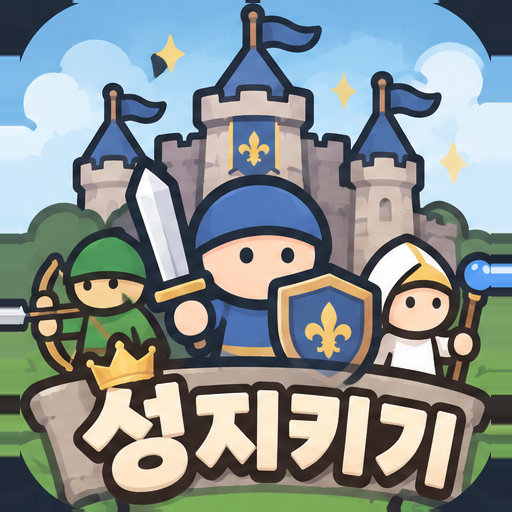
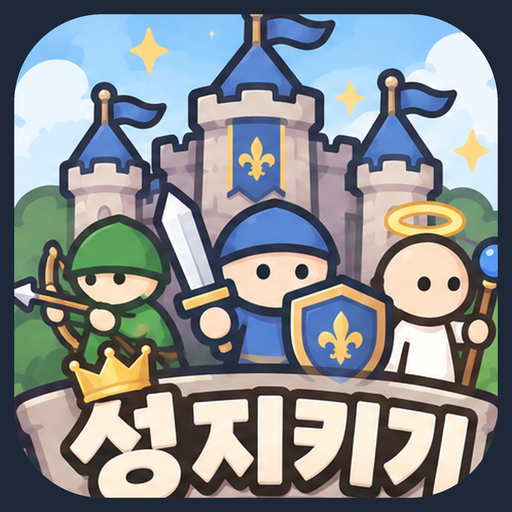
새 로고·앱 아이콘 적용, 100라운드 클리어 시 복구 자금 50,000G

diff --git a/index.html b/index.html
@@ -444,8 +444,8 @@ table.rank tr.top.me td { outline: 1px solid rgba(255,204,64,.8); outline-offset
 @keyframes cfxSpark { from { transform: translate(0, 0) scale(1); opacity: 1; } to { transform: translate(var(--dx), var(--dy)) scale(.2); opacity: 0; } }
 @media (prefers-reduced-motion: reduce) { .clickfx { display: none; } }
 </style>
-<link rel="icon" href="icon-192.png" type="image/png">
-<link rel="apple-touch-icon" href="icon.png">
+<link rel="icon" href="icon-192.png?v=20261128a" type="image/png">
+<link rel="apple-touch-icon" href="icon.png?v=20261128a">
 <meta name="theme-color" content="#16301f">
 </head>
 <body class="pre">
@@ -560,7 +560,7 @@ table.rank tr.top.me td { outline: 1px solid rgba(255,204,64,.8); outline-offset
 
 <div id="title" class="hidden">
   <div class="art"></div>
-  <div class="logo"><img src="assets/logo.webp" alt="성 지키기" width="800" height="692"><p>CASTLE DEFENSE</p></div>
+  <div class="logo"><img src="assets/logo.webp?v=20261128a" alt="성 지키기" width="800" height="692"><p>CASTLE DEFENSE</p></div>
   <div id="tapHint">화면을 터치하거나 아무 키나 누르세요</div>
   <div id="tMenu"><button id="mStart" class="main">게임 시작</button><button id="mHow">게임 방법</button><button id="mColl">컬렉션</button><button id="mRank">랭킹</button><button id="mQuit">게임 종료</button></div>
   <button id="tDev" class="btn panel tbtn" aria-label="" tabindex="-1"></button><button id="tSet" class="btn panel tbtn" aria-label="설정"><svg class="gear" viewBox="0 0 24 24" width="20" height="20" fill="none" stroke="currentColor" stroke-width="1.8" stroke-linecap="round" stroke-linejoin="round"><circle cx="12" cy="12" r="3.2"/><path d="M12 2.8l1.5 2.4 2.8-.6.9 2.7 2.7.9-.6 2.8 2.4 1.5-2.4 1.5.6 2.8-2.7.9-.9 2.7-2.8-.6L12 21.2l-1.5-2.4-2.8.6-.9-2.7-2.7-.9.6-2.8L2.3 12l2.4-1.5-.6-2.8 2.7-.9.9-2.7 2.8.6z"/></svg></button>
@@ -587,14 +587,14 @@ table.rank tr.top.me td { outline: 1px solid rgba(255,204,64,.8); outline-offset
   </div>
 </div>
 
-<script src="core.js?v=20261127l"></script>
-<script src="figures.js?v=20261127l"></script>
-<script src="scenery.js?v=20261127l"></script>
-<script src="config.js?v=20261127l"></script>
-<script src="meta.js?v=20261127l"></script>
-<script src="net.js?v=20261127l"></script>
-<script src="audio.js?v=20261127l"></script>
-<script src="patches.js?v=20261127l"></script>
-<script src="main.js?v=20261127l"></script>
+<script src="core.js?v=20261128a"></script>
+<script src="figures.js?v=20261128a"></script>
+<script src="scenery.js?v=20261128a"></script>
+<script src="config.js?v=20261128a"></script>
+<script src="meta.js?v=20261128a"></script>
+<script src="net.js?v=20261128a"></script>
+<script src="audio.js?v=20261128a"></script>
+<script src="patches.js?v=20261128a"></script>
+<script src="main.js?v=20261128a"></script>
 </body>
 </html>

diff --git a/core.js b/core.js
@@ -336,7 +336,7 @@
     // 엘리트: 일반 몬스터가 일정 확률로 훨씬 강하고 크게 나온다. 확률은 라운드가 갈수록 커져 최대 max
     elite: { from: 3, perRound: 0.0025, max: 0.10, hp: 3, dmg: 1.6, size: 1.35, gold: 4, speed: 1.05 },
     endless: { hpLin: 0.064, hpQuad: 0.000375, cnt: 0.011, bossBase: 60000, bossExp: 0.6, marMul: 0.9, postBoss: 1.8, // 용(100라운드) 이후: 체력 배율이 더 가파르게 오른다 (라운드마다 +12%p + 제곱항), 수·속도도 가속
-      infLin: 0.09, infQuad: 0.003, infCnt: 0.015, infSpd: 0.0045, infSpdCap: 1.7 }, // 무한 모드(51라운드~) 난이도 곡선: 체력 배율 1+lin·n+quad·n², 적 수 +cnt·n (n = 50라운드 이후 지난 라운드)
+      infLin: 0.09, infQuad: 0.003, infCnt: 0.015, infSpd: 0.0045, infSpdCap: 1.7, clearGold: 50000 }, // clearGold: 용을 쓰러뜨리고 무한 모드로 이어 갈 때 주는 복구 자금 (100라운드 무렵 한 라운드 수입의 약 5배) // 무한 모드(51라운드~) 난이도 곡선: 체력 배율 1+lin·n+quad·n², 적 수 +cnt·n (n = 50라운드 이후 지난 라운드)
     dmgVar: 0.15,                     // 모든 공격 피해에 공격력 ±15% 오차
     legendChance: 0.007,              // 30라운드 이후, 카드 한 칸마다 전설 카드가 나올 확률 (아주 낮음)
     rarityWeight: { common: 70, rare: 25, epic: 5 },
@@ -673,7 +673,8 @@
     S.over = false; S.win = false; S.cleared = true; S.infinite = true; S.cliff = 0; S.cliffTheme = null; S.dragonIntro = null; S.dragonWaveT = undefined; S.bossDeath = null;
     S.enemies.length = 0; S.queue.length = 0; S.strikes.length = 0; S.pools.length = 0; S.rain.length = 0; S.omen = null; S.omenWait = false; S.omenEv = null;
     S.core.hp = Math.max(S.core.hp, S.core.max * 0.8);
-    emit(S, { type: 'infinite' }); return true;
+    const g = CFG.endless.clearGold; S.gold += g; S.stats.earned += g; // 100라운드 클리어 보상: 용과의 싸움에서 잃은 병력을 다시 꾸릴 자금
+    emit(S, { type: 'infinite', gold: g }); return true;
   }
   function reviveForEndless(S, boss) {
     S.endless = true; S.cinematic = { name: boss.bossName, kind: 'endless' };
@@ -999,6 +1000,7 @@
       const E = CFG.elite, ep = r >= E.from ? Math.min(E.max, (r - E.from + 1) * E.perRound) : 0;
       b += 1.6 * (enemyCount(r) * KIND_AVG(r) * (1 + ep * (E.gold - 1)) + (r % 5 === 0 && r >= 5 ? CFG.enemies.boss.gold : 0));
     }
+    if (R >= FINAL_ROUND) b += CFG.endless.clearGold; // 100라운드 클리어 보상
     return Math.round(b);
   }
   function checkRun(S) {

diff --git a/main.js b/main.js
@@ -1087,7 +1087,7 @@
       else if (ev.type === 'strikeWarn') addFx({ k: 'strikeW', x: ev.x, y: ev.y, r: ev.r, ang: ev.ang, half: ev.half, len: ev.len, kind: ev.kind, shape: ev.shape, w2: ev.w2, claw: ev.claw, t: 0, max: Math.max(0.2, ev.t) });
       else if (ev.type === 'strikeHit') { { const sc = { bolt: '#fff27a', fire: '#ff9a3a', slam: '#d9a05a', frost: '#bfe8ff', ice: '#bfe8ff', slash: '#ffffff', claw: '#ff6a6a' }[ev.kind] || '#ffd27a'; addFx({ k: 'sparks', x: ev.x, y: ev.y, t: 0, max: 0.45, c: sc, r: Math.min(ev.r || 60, 110), n: 14, w: 3, big: true }); } addFx({ k: 'strikeH', x: ev.x, y: ev.y, r: ev.r, ang: ev.ang, half: ev.half, len: ev.len, kind: ev.kind, shape: ev.shape, w2: ev.w2, claw: ev.claw, t: 0, max: ev.shape === 'cone' ? 0.7 : ev.shape === 'line' ? 0.6 : 0.55 }); if (ev.kind !== 'ice' || ev.r > 300) addShake(ev.kind === 'slam' ? 14 : ev.kind === 'wind' ? 5 : ev.r > 250 ? 12 : 6, ev.kind === 'slam' ? 0.45 : 0.3); }
       else if (ev.type === 'omen') { if (ev.id !== 'dragon') showBossIntro({ name: ev.name, line: ev.line, look: ev.look, r: ev.r, long: true, omen: ev.id }); toast(ev.id === 'dragon' ? '용의 기운이 맵 가장자리에 감돕니다' : '사천왕의 기운이 맵 가장자리에 감돕니다'); if (ev.fx) setTimeout(() => toast(ev.fx), 1200); }
-      else if (ev.type === 'infinite') { addFx({ k: 'ring', x: CX, y: CY, t: 0, max: 1.0, c: '#c77dff', big: true, r: 220 }); }
+      else if (ev.type === 'infinite') { addFx({ k: 'ring', x: CX, y: CY, t: 0, max: 1.0, c: '#c77dff', big: true, r: 220 }); if (ev.gold) { toast('🐉 100라운드 클리어 보상 +' + ev.gold.toLocaleString() + 'G'); } }
       else if (ev.type === 'omenEmber') addFx({ k: 'ring', x: ev.x, y: ev.y, t: 0, max: 0.5, c: '#ff7a3a' });
       else if (ev.type === 'castleAwaken') { banner('성채 각성!', true); for (let i = 0; i < 4; i++) addFx({ k: 'ring', x: CX, y: CY, t: -i * 0.12, max: 1.0, c: '#ffe27a', big: true, r: 200 }); addShake(8, 0.5); }
       else if (ev.type === 'dragonRise') { banner(ev.back ? '용이 하늘에서 내려온다!!' : '재앙의 용이 모습을 드러낸다!!', true); flash('#ff3a1a', ev.back ? 0.2 : 0.45); addShake(ev.back ? 4 : 14, ev.back ? 0.5 : 1.2); if (!ev.back) { // 단상 가장자리에 충격파와 먼지·불씨가 터진다

diff --git a/tests/smoke.js b/tests/smoke.js
@@ -901,7 +901,9 @@ function spreadOf(g) { const q = { up: 0, down: 0, left: 0, right: 0 }, ang = []
 // 66) 엔딩 뒤 무한 모드
 { const g = C.createGame(31); g.captureEvents = true; C.devSetup(g, 100); for (let i = 0; i < 30 * 10; i++) { if (g.cards.offer) C.pickCard(g, 0); if (g.jobs.offer) C.pickJob(g, 0); if (g.cOffer) C.pickCastle(g, 0); C.tick(g, DT); }
   check('엔딩 전에는 무한 모드로 이어갈 수 없음', !C.continueInfinite(g)); g.win = true; g.over = true; g.round = 100;
+  const gold0 = g.gold, earn0 = g.stats.earned;
   check('엔딩 뒤 무한 모드로 이어짐', C.continueInfinite(g) && !g.over && !g.win && g.infinite && g.cliff === 0);
+  check('100라운드 클리어 보상 골드', g.gold - gold0 === C.CFG.endless.clearGold && g.stats.earned - earn0 === C.CFG.endless.clearGold, '+' + (g.gold - gold0));
   g.core.hp = g.core.max = 1e12; let r0 = g.round; for (let i = 0; i < 30 * 60 * 6 && g.round <= 100; i++) { for (const u of g.units) u.hp = u.max; C.tick(g, DT); }
   check('무한 모드: 101라운드가 시작됨', g.round >= 101, g.round);
   const h = r => C.bossInfo(g, r).hp; check('무한 모드: 100라운드 이후 적 체력이 훨씬 가파르게 오름', h(115) / h(105) > 1.4 && h(125) / h(115) > 1.4 && h(105) / h(95) > h(95) / h(85) * 1.15, (h(115) / h(105)).toFixed(2));

diff --git a/sw.js b/sw.js
@@ -1,7 +1,7 @@
 // 설치형 앱(PWA) 서비스 워커: 한 번 받은 파일은 기기에 저장해 두어 다음부터 빠르게 열리고, 인터넷이 없어도 게임을 할 수 있다.
 // 페이지·스크립트는 '인터넷 먼저'(새 버전이 있으면 바로 받음), 그림은 '저장본 먼저'. 배경음악(mp3)과 랭킹 서버 요청은 건드리지 않는다.
-const CACHE = 'cd-v2'; // 그림을 바꾸면 이름을 올려 저장본을 새로 받게 한다
-const CORE = ['./', 'index.html', 'manifest.webmanifest', 'icon.png', 'icon-192.png', 'icon-512.png', 'icon-mask-512.png', 'assets/title.webp', 'assets/logo.webp'];
+const CACHE = 'cd-v3'; // 그림을 바꾸면 이름을 올려 저장본을 새로 받게 한다
+const CORE = ['./', 'index.html', 'manifest.webmanifest', 'icon.png', 'icon-192.png', 'icon-512.png', 'icon-mask-512.png', 'assets/title.webp', 'assets/logo.webp?v=20261128a'];
 self.addEventListener('install', e => { e.waitUntil(caches.open(CACHE).then(c => c.addAll(CORE)).catch(() => {})); self.skipWaiting(); });
 self.addEventListener('activate', e => { e.waitUntil(caches.keys().then(ks => Promise.all(ks.filter(k => k !== CACHE).map(k => caches.delete(k)))).then(() => self.clients.claim())); });
 self.addEventListener('fetch', e => {

diff --git a/patches.js b/patches.js
@@ -1,6 +1,10 @@
 // 패치 노트: 맨 위가 최신. 새 패치를 올릴 때 맨 위에 항목을 추가하면 시작 화면에서 아직 안 본 사람에게 한 번 자동으로 보여 준다.
 // id는 겹치지 않게 (날짜 + 순번). title은 짧게, items는 한 줄씩.
 window.CD_PATCHES = [
+  { id: '2026.11.28', date: '11월 28일', title: '새 로고 · 클리어 보상', items: [
+    '시작 화면 로고와 앱 아이콘을 새 그림으로 바꿨어요',
+    '🐉 100라운드를 클리어하고 무한 모드로 이어 가면 복구 자금 50,000G를 받아요',
+  ] },
   { id: '2026.11.27', date: '11월 27일', title: '앱 설치 · 새 로고 · 전투 기록', items: [
     '📲 앱으로 설치: 시작 화면 왼쪽 위 버튼으로 홈 화면·바탕 화면에 설치할 수 있어요 (아이폰은 공유 → 홈 화면에 추가)',
     '새 로고와 앱 아이콘을 적용하고, 휴대폰에서 시작 화면이 잘리지 않게 맞췄어요',

diff --git a/README.md b/README.md
@@ -472,3 +472,7 @@ node tools/balance.mjs sweep bossPool.4.abil.artillery.dmg 90,60 60             
 ## 예고 장판 차오름 · 강습 예고선 길이
 - 보스 기술의 예고 범위(원형·직선·부채꼴, 상태이상 장판, 도약 착지, 포격 낙하 지점, 손톱, 강습 경로)를 공통 함수 `drawTele`로 그린다: 반투명한 전체 범위 안에서 반투명 범위가 차올라, 둘의 크기가 같아지는 순간 피해가 들어간다. 직선형은 시작점에서 끝 쪽으로, 부채꼴은 반지름이, 원형은 반지름이 커진다.
 - 등장 강습은 `rushStopAt`으로 실제 멈출 지점(직선 위에서 처음 닿는 아군, 경로 끝 +150, 아군이 없으면 성 앞, 등장 7초 제한)을 계산한다. 예고 중에는 매 틱 다시 계산해 예고선 길이를 맞추고, 돌진은 예고 시작 지점부터 그 거리를 넘지 않는다.
+
+## 새 로고·아이콘 · 100라운드 클리어 보상
+- 시작 화면 로고(`assets/logo.webp`)와 앱 아이콘(`icon*.png`)을 새 그림에서 잘라 교체. 서비스 워커 캐시 이름을 `cd-v3`로 올리고 로고·아이콘 주소에 `?v=`를 붙여 예전 그림이 남지 않게 했다.
+- 용을 쓰러뜨리고 무한 모드로 이어 갈 때(`continueInfinite`) `CFG.endless.clearGold`(50,000G)를 준다. 100라운드 무렵 한 라운드 수입의 약 5배. 부정 확인용 골드 상한(`goldBound`)에도 같은 값을 더했다.
